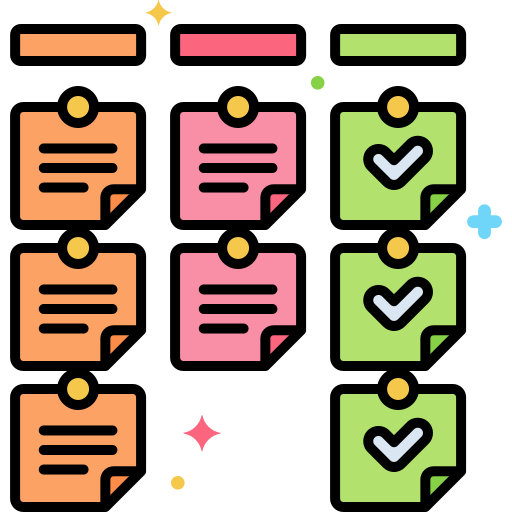
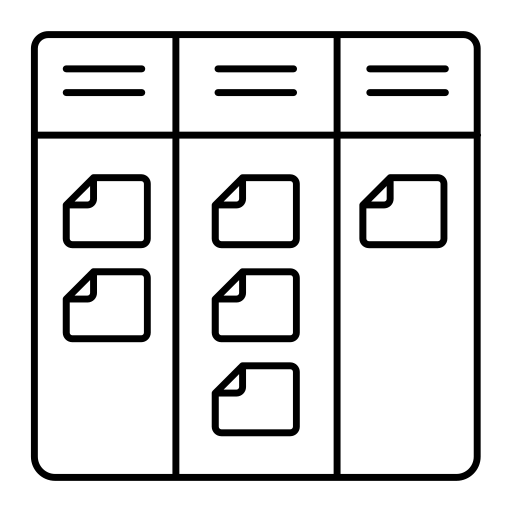
style: atualiza icone e posicao do kanban

diff --git a/src/components/portal/AppSidebar.tsx b/src/components/portal/AppSidebar.tsx
@@ -61,8 +61,8 @@ const nav: NavItem[] = [
   { to: "/iniciar-hadron", label: "Hadron", icon: HadronIcon },
   { to: "/base-de-conhecimento", label: "Base", icon: BaseIcon },
   { to: "/atualizacoes", label: "Atualizações", icon: UpdatesIcon },
-  { to: "/kanban", label: "Kanban", icon: KanbanIcon },
   { to: "/analytics", label: "Analytics", icon: AnalyticsIcon },
+  { to: "/kanban", label: "Kanban", icon: KanbanIcon },
   { to: "/clientes", label: "Clientes", icon: CustomersIcon },
 ];
 